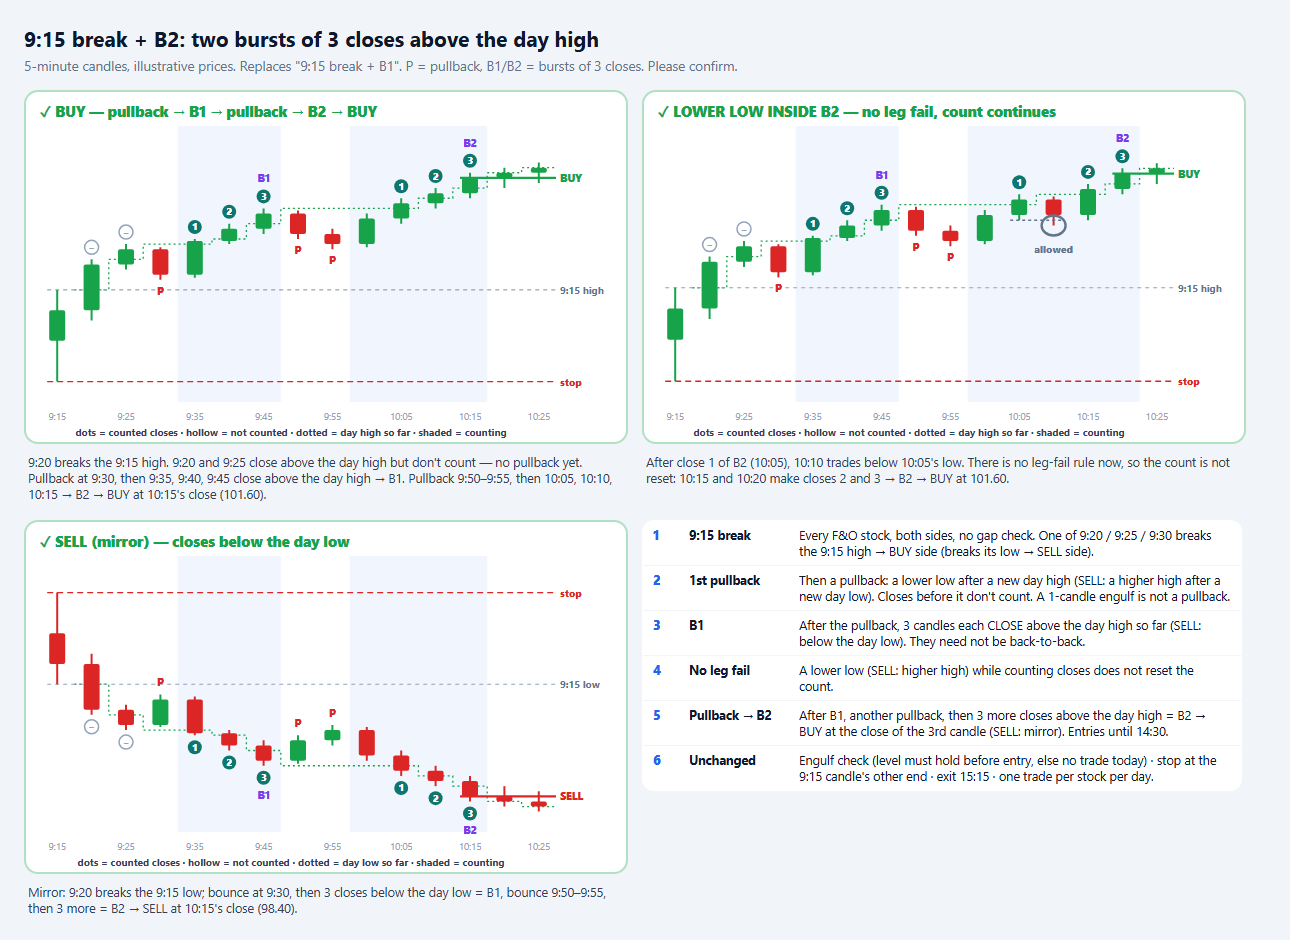
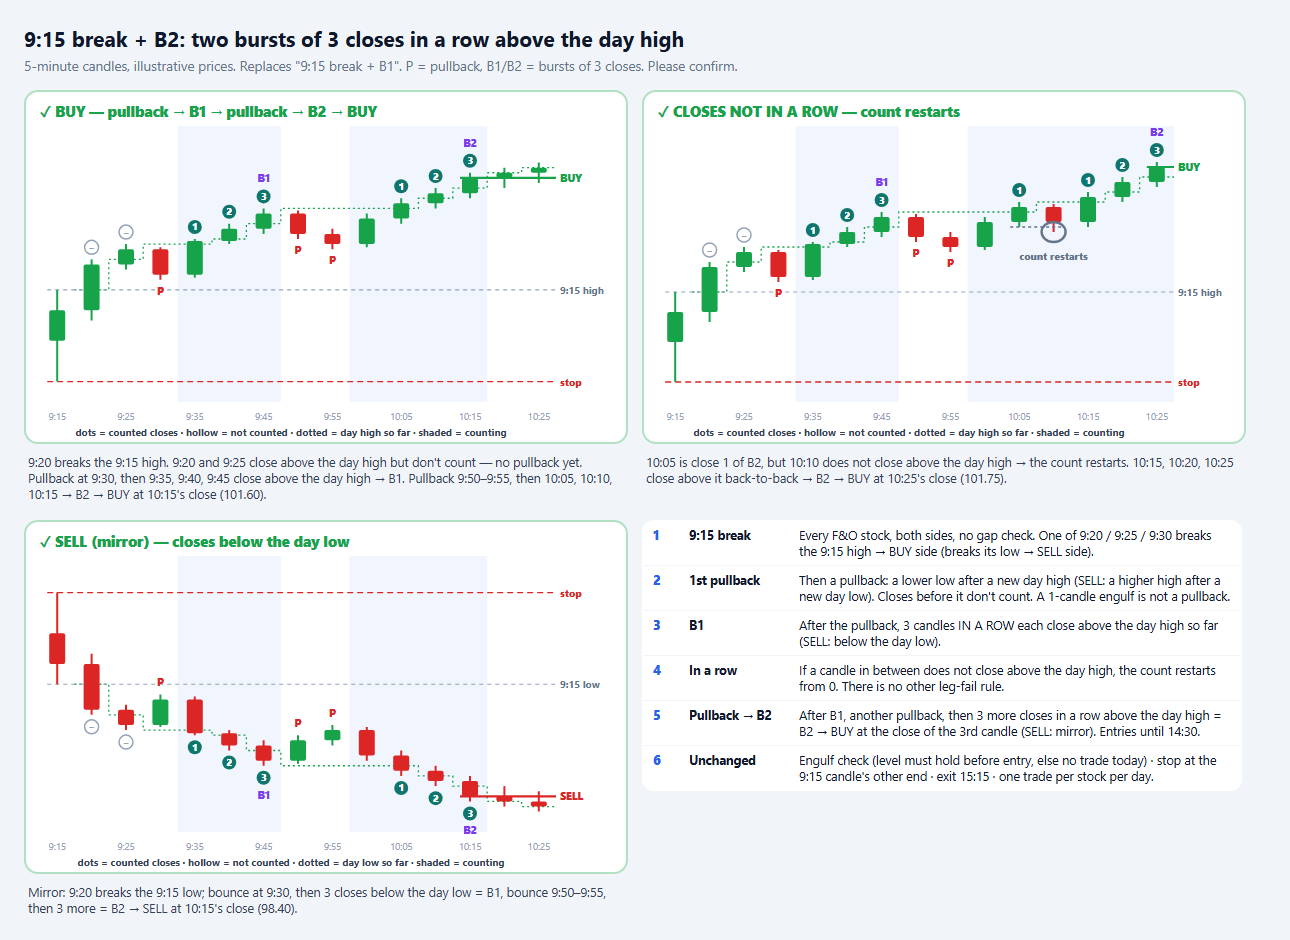
improvement

diff --git a/server/autoTrader.js b/server/autoTrader.js
@@ -133,8 +133,8 @@ function describeStrategies(settings) {
         "Every F&O stock, every day — no gap check, both sides",
         `A candle breaks the 9:15 candle's low before ${window} → look for SELL (breaks its high → BUY)`,
         "Pullback: a lower low (BUY) / higher high (SELL) after a new day high / low — a 1-candle engulf is not a pullback",
-        "B1: after the first pullback, 3 candles close above the day high (BUY) / below the day low (SELL); need not be back-to-back, a lower low (SELL: higher high) meanwhile does not reset",
-        "Then another pullback and 3 more such closes = B2 → enter at the 3rd candle's close",
+        "B1: after the first pullback, 3 candles in a row close above the day high (BUY) / below the day low (SELL); a candle that doesn't restarts the count",
+        "Then another pullback and 3 more such closes in a row = B2 → enter at the 3rd candle's close",
         "Engulf check: after a red candle (BUY) / green candle (SELL), if 1 or more candles first break its low and then its high (SELL: high then low), their lowest low (SELL: highest high) must not break before the entry, else no trade on that side today",
         "Entries until 14:30 · one trade per stock per day",
         "Cancelled if the 9:15 candle's other end trades before the entry · stop there · exit 15:15",
@@ -636,8 +636,8 @@ export function createAutoTrader({ kite, withKiteAuth, getInstruments, sendTeleg
   }
 
   // B2 after the 9:15 break, from candle index `from` on (BUY shown; SELL is the mirror): a pullback (a lower low
-  // after a new day high; a 1-candle engulf is not one) -> 3 candles close above the day high so far = B1 (not
-  // necessarily back-to-back; a lower low while counting does not reset it) -> another pullback -> 3 more closes
+  // after a new day high; a 1-candle engulf is not one) -> 3 candles in a row close above the day high so far = B1
+  // (a candle that doesn't restarts the count; lower lows alone don't matter) -> another pullback -> 3 more closes
   // above the day high = B2 -> enter at the 3rd candle's close. Engulf check: after a red candle R, if one or more
   // candles first trade below R's low and then above R's high, their lowest low must not break before the entry
   // (else no trade on this side today). Cancelled if `stop` trades or the last entry time passes first.
@@ -692,6 +692,8 @@ export function createAutoTrader({ kite, withKiteAuth, getInstruments, sendTeleg
             if (bursts === 2) return { idx: k, price: short ? -c.close : c.close };
             step = "wait";
           }
+        } else {
+          closes = 0; // the 3 closes must be back-to-back
         }
       }
       if (c.high > extreme) newHigh = true;

diff --git a/server/backtest/run.js b/server/backtest/run.js
@@ -193,8 +193,8 @@ function gapFadeTrade({ symbol, day, candles, prevClose, prevDayChange, niftyCha
 }
 
 // B2 after the 9:15 break, from candle index `from` on (BUY shown; SELL is the mirror): a pullback (a lower low
-// after a new day high; a 1-candle engulf is not one) -> 3 candles close above the day high so far = B1 (not
-// necessarily back-to-back; a lower low while counting does not reset it) -> another pullback -> 3 more closes
+// after a new day high; a 1-candle engulf is not one) -> 3 candles in a row close above the day high so far = B1
+// (a candle that doesn't restarts the count; lower lows alone don't matter) -> another pullback -> 3 more closes
 // above the day high = B2 -> enter at the 3rd candle's close. Engulf check: after a red candle R, if one or more
 // candles first trade below R's low and then above R's high, their lowest low must not break before the entry
 // (else no trade on this side today). Cancelled if `stop` trades or the last entry time passes first.
@@ -249,6 +249,8 @@ function findGapBurst(candles, from, short, stop, lastEntryMinute) {
           if (bursts === 2) return { idx: k, price: short ? -c.close : c.close };
           step = "wait";
         }
+      } else {
+        closes = 0; // the 3 closes must be back-to-back
       }
     }
     if (c.high > extreme) newHigh = true;
